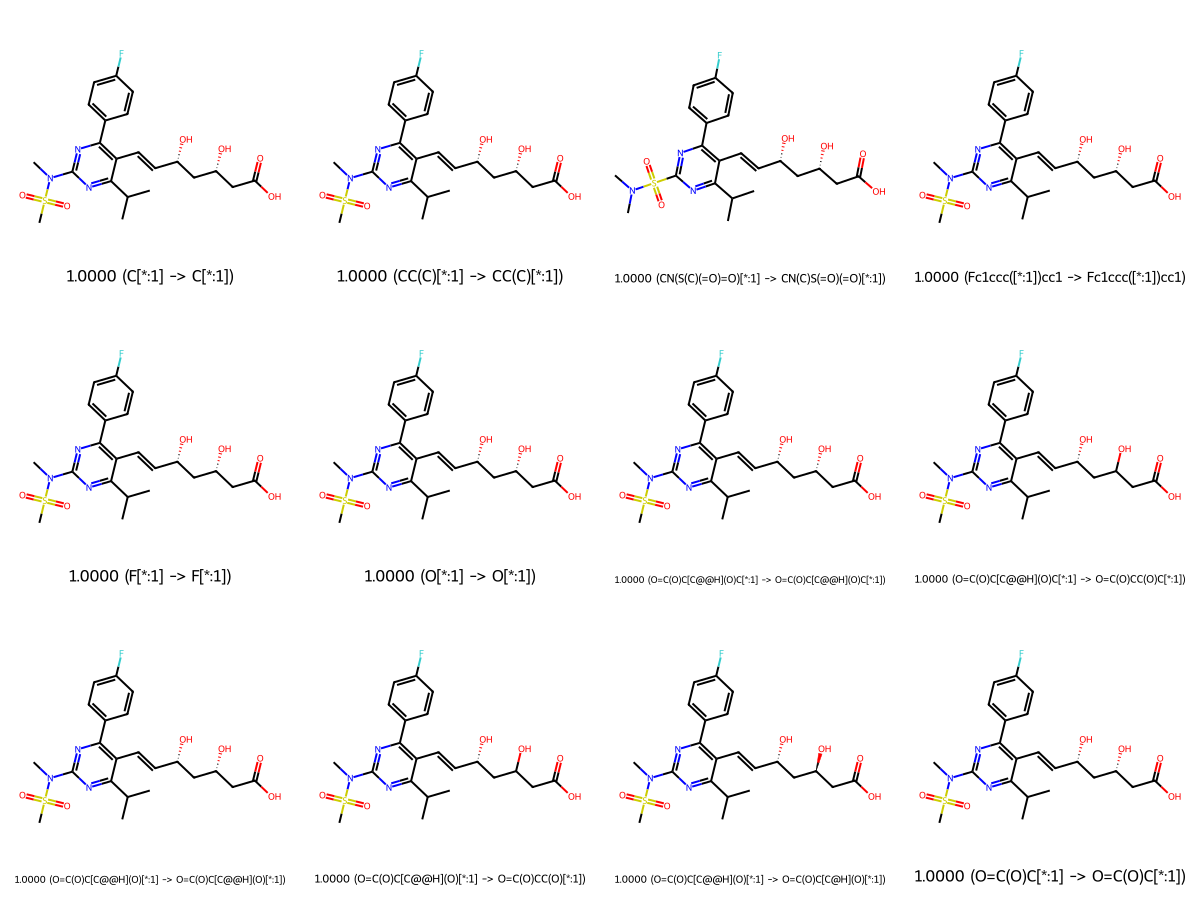
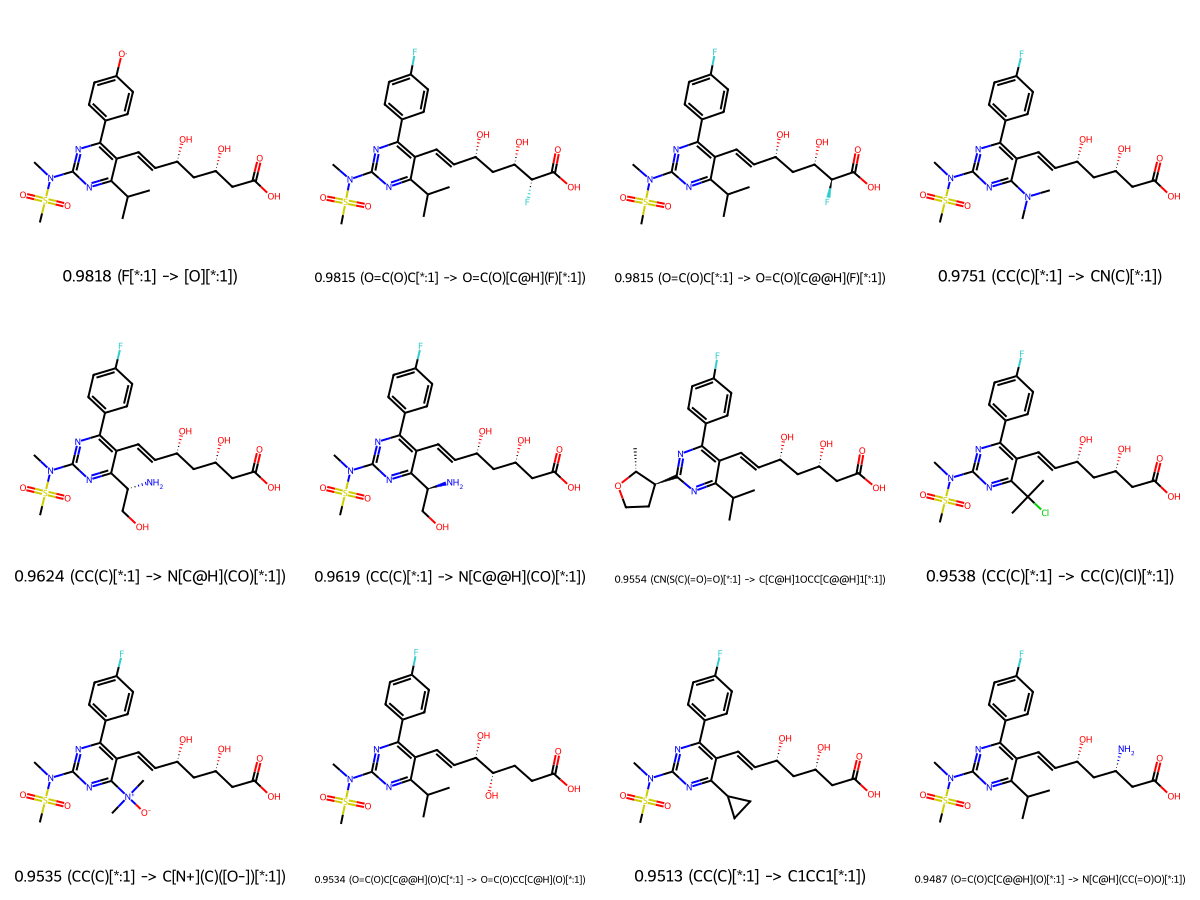
Drop near-1.0 similarity matches -- they just reconstruct the lead itself
9 of rosuvastatin's 10 fragments had a trivial self-match (similarity
1.0000) in the library, which molzip'd back onto the lead's own core just
reproduces the original molecule -- these dominated the top-12 image
(9/12 slots were literally rosuvastatin itself). Hardwired a
MAX_USEFUL_SIMILARITY = 0.999 cutoff in query_lead_cli.py (not a CLI flag --
there's never a reason to want the input molecule back as a suggested
analogue). Unique analogues in the rosuvastatin example went from 67/80 to
77/80 rows. Regenerated the tracked example CSV/image and updated the
README walkthrough to match the real (post-filter) output.

diff --git a/code/query_lead_cli.py b/code/query_lead_cli.py
@@ -28,6 +28,11 @@ import library as lib
 REPO_ROOT = os.path.dirname(os.path.dirname(os.path.abspath(__file__)))
 DEFAULT_OUT = os.path.join(REPO_ROOT, "outputs", "lead_matches.csv")
 
+# A match at or above this similarity just reconstructs the lead itself (or
+# something indistinguishable from it under the shape descriptor) -- never
+# a useful "new" analogue, so these are always dropped, not configurable.
+MAX_USEFUL_SIMILARITY = 0.999
+
 
 def main():
     ap = argparse.ArgumentParser(description=__doc__,
@@ -73,6 +78,7 @@ def main():
 
         ranked = [(shape.best_similarity(d, lib_d), lib_smi, lib_label)
                  for lib_smi, (lib_d, lib_label) in library_fragments.items()]
+        ranked = [r for r in ranked if r[0] < MAX_USEFUL_SIMILARITY]
         ranked.sort(reverse=True)
 
         print(f"\nLead fragment: {lead_frag_smi}")

diff --git a/README.md b/README.md
@@ -39,7 +39,9 @@ conformer generation, ODDT for the 3D shape descriptors.**
 6. **Build the analogue** (`query_lead_cli.py` only) — for each top match, the
    matched library fragment is grafted onto the lead's own core at the
    matching numbered dummy atom (`Chem.molzip`), producing a real new
-   candidate molecule's SMILES — not just a fragment-level score. The top
+   candidate molecule's SMILES — not just a fragment-level score. Matches at
+   similarity ≥ 0.999 are always dropped (not configurable) — those just
+   reconstruct the lead itself, not a useful new analogue. The remaining top
    matches (by similarity, across all of the lead's fragments) are also
    rendered as a grid image.
 
@@ -85,13 +87,13 @@ rosuvastatin's own core (real output from the run above):
 
 ```
 Lead fragment: CC(C)[*:1]                  (the isopropyl group on the pyrimidine ring)
-  1.000  CC(C)[*:1]  -> CC(C)c1nc(N(C)S(C)(=O)=O)nc(-c2ccc(F)cc2)c1/C=C/[C@H](O)C[C@H](O)CC(=O)O
-  0.975  CN(C)[*:1]  -> CN(C)c1nc(N(C)S(C)(=O)=O)nc(-c2ccc(F)cc2)c1/C=C/[C@H](O)C[C@H](O)CC(=O)O
-  0.951  C1CC1[*:1]  -> C1CC1c1nc(N(C)S(C)(=O)=O)nc(-c2ccc(F)cc2)c1/C=C/[C@H](O)C[C@H](O)CC(=O)O
+  0.975  CN(C)[*:1]        -> CN(C)c1nc(N(C)S(C)(=O)=O)nc(-c2ccc(F)cc2)c1/C=C/[C@H](O)C[C@H](O)CC(=O)O
+  0.962  N[C@H](CO)[*:1]   -> CN(c1nc(-c2ccc(F)cc2)c(/C=C/[C@H](O)C[C@H](O)CC(=O)O)c([C@H](N)CO)n1)S(C)(=O)=O
+  0.954  CC(C)(Cl)[*:1]    -> CN(c1nc(-c2ccc(F)cc2)c(/C=C/[C@H](O)C[C@H](O)CC(=O)O)c(C(C)(C)Cl)n1)S(C)(=O)=O
 
 Lead fragment: Fc1ccc([*:1])cc1            (the 4-fluorophenyl ring)
-  1.000  Fc1ccc([*:1])cc1  -> (rosuvastatin itself)
-  0.943  Fc1ccc([*:1])nc1  -> CC(C)c1nc(N(C)S(C)(=O)=O)nc(-c2ccc(F)nc2)c1/C=C/[C@H](O)C[C@H](O)CC(=O)O
+  0.943  Fc1ccc([*:1])nc1  -> CC(C)c1nc(N(C)S(C)(=O)=O)nc(-c2ccc(F)cn2)c1/C=C/[C@H](O)C[C@H](O)CC(=O)O
+  0.934  C[C@H](O)CC(=O)[*:1] -> CC(C)c1nc(N(C)S(C)(=O)=O)nc(C(=O)C[C@H](C)O)c1/C=C/[C@H](O)C[C@H](O)CC(=O)O
 ```
 
 Top-12 analogues across all of rosuvastatin's fragments, ranked by shape
